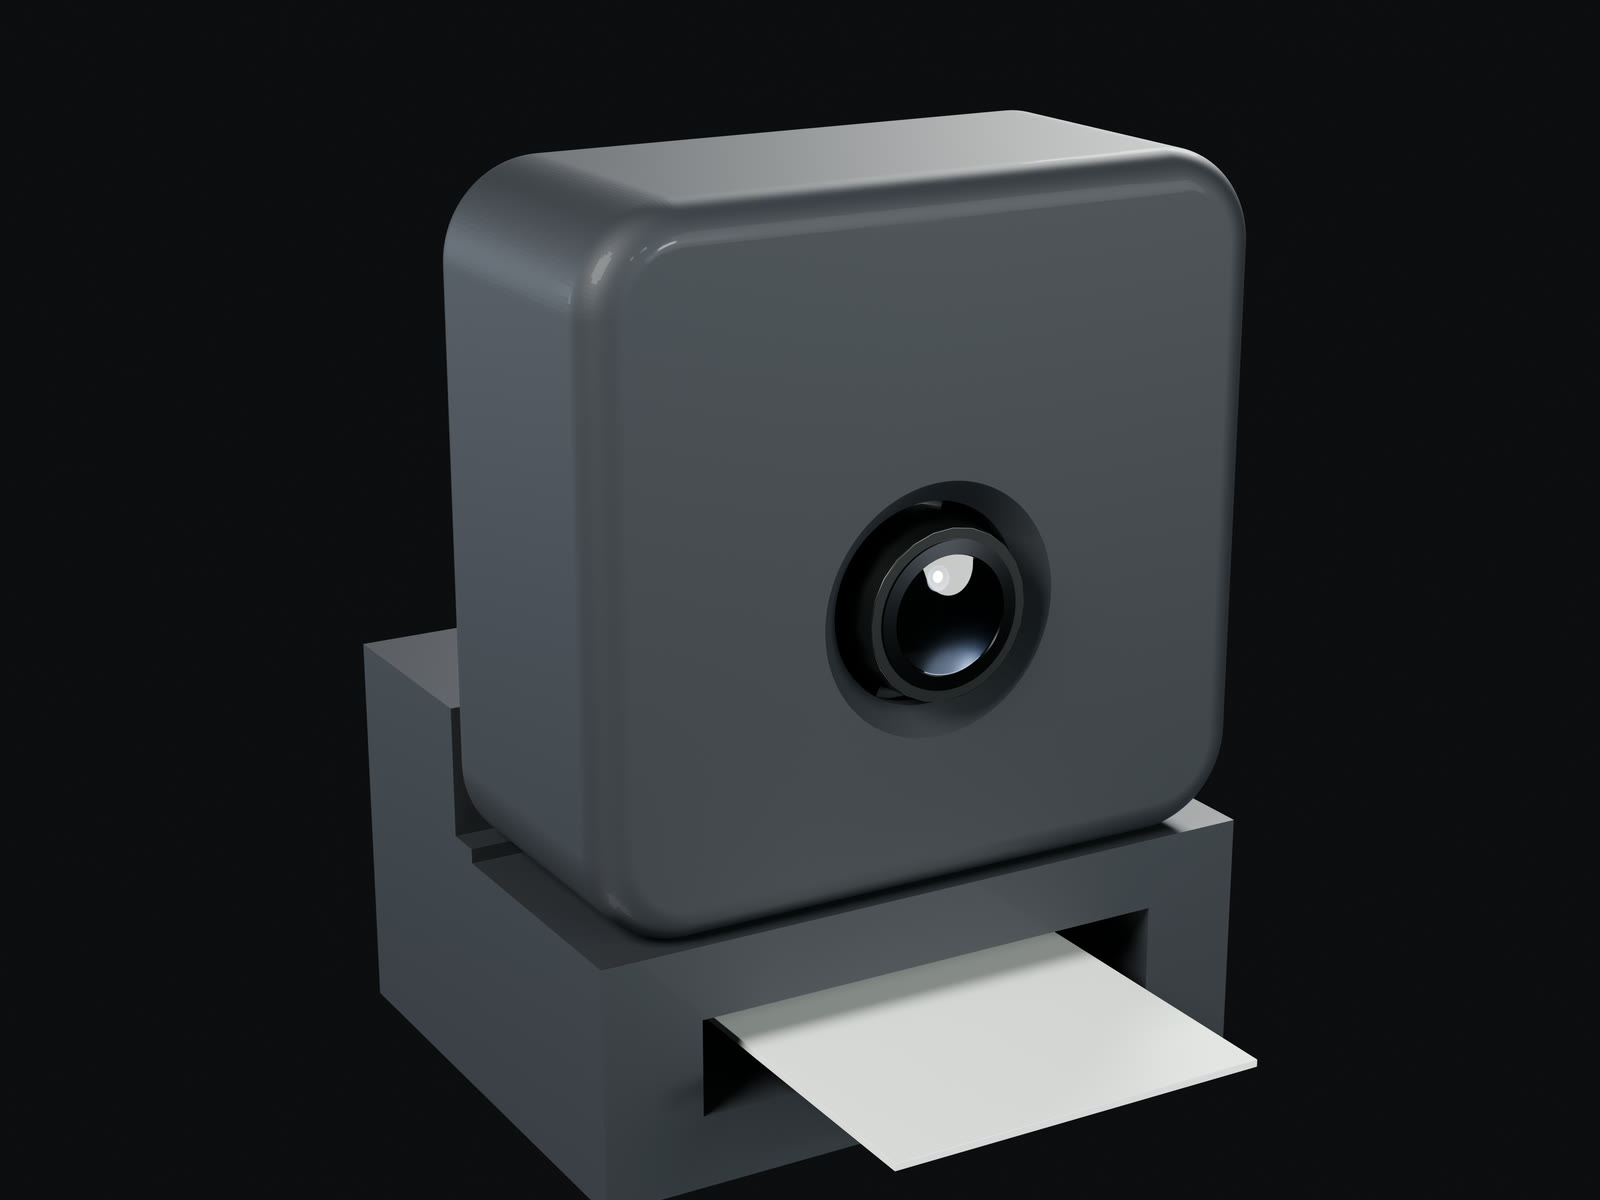
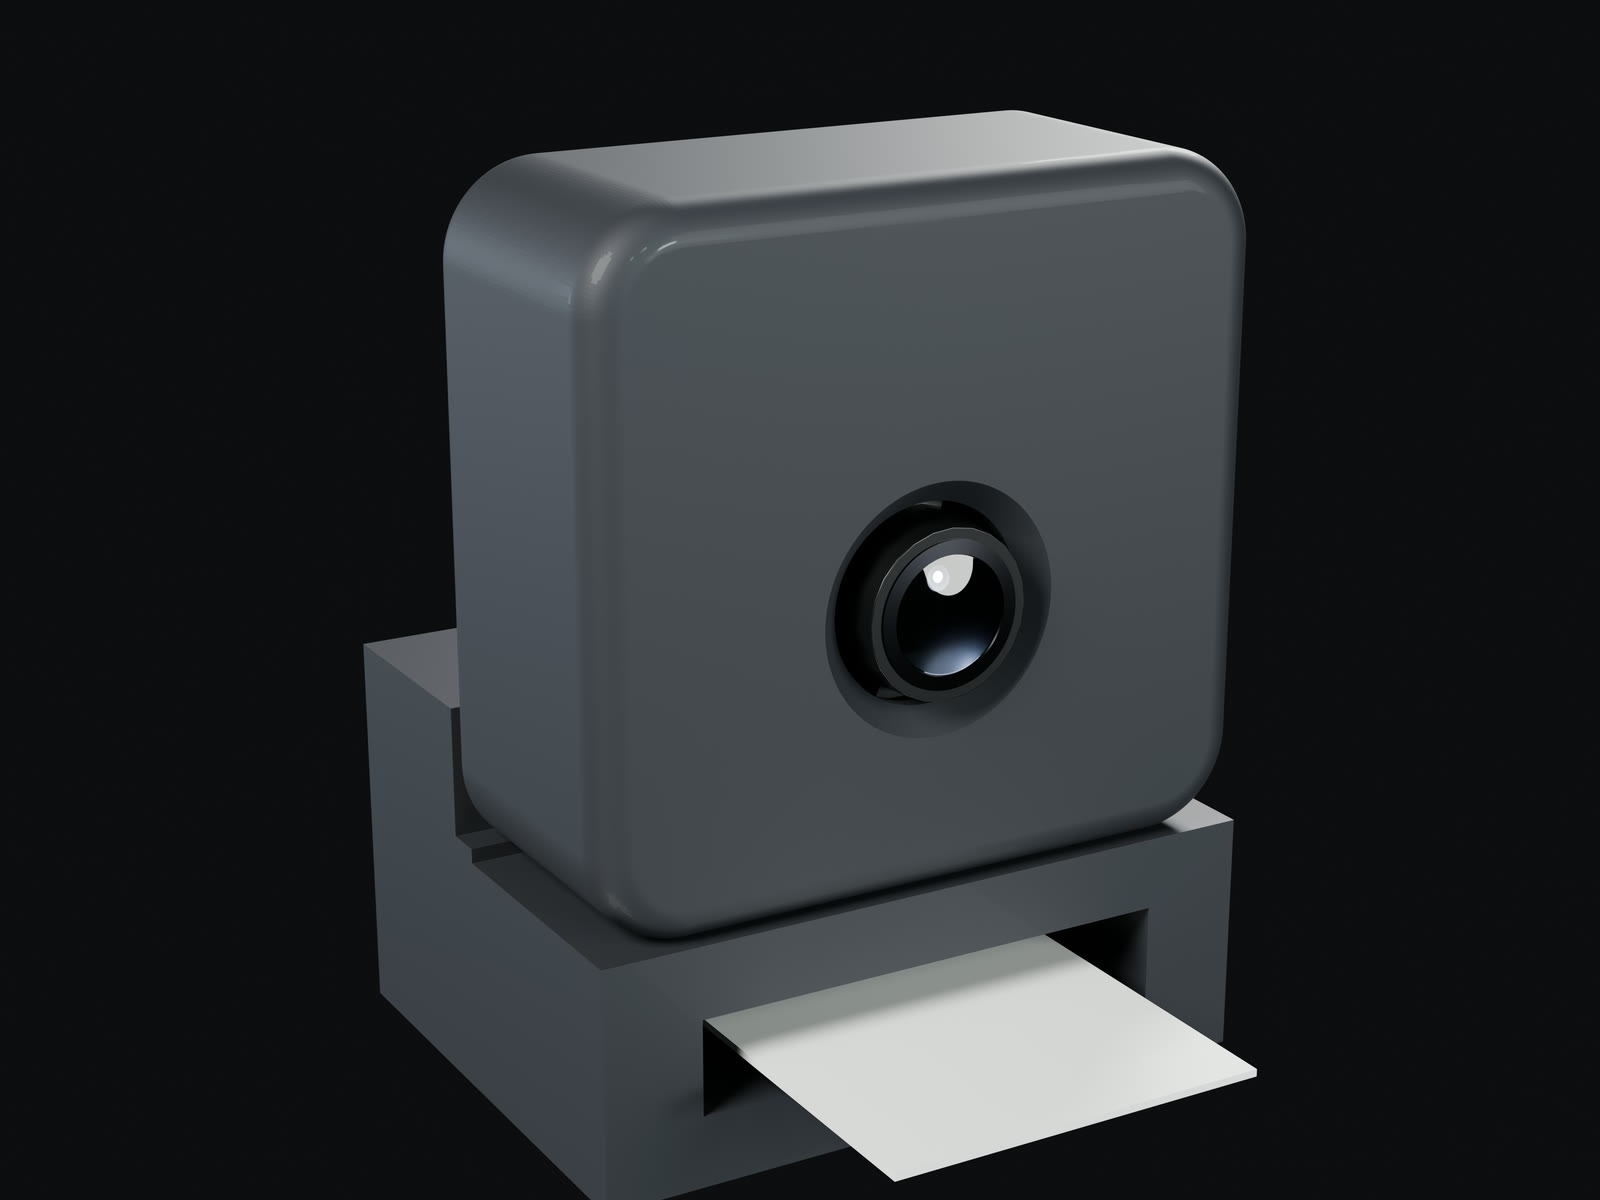
Update the Camera Module 3 Wide case README, JPG and anatomy GIF
Re-rendered with the open tripod socket and the curved ribbon channel.

diff --git a/5658 Raspberry Pi Camera Module 3 Wide/Tripod Case/README.md b/5658 Raspberry Pi Camera Module 3 Wide/Tripod Case/README.md
@@ -7,7 +7,7 @@ A two part snap-together case for the [Raspberry Pi Camera Module 3 Wide](https:
 ![Exploded line drawing: lens opening, pins, snap, ribbon path and tripod thread](<5658 Raspberry Pi Camera Module 3 Wide Tripod Case Anatomy.gif>)
 
 - The case can't block the 120 degree view. The front face sits 0.6 mm behind the lens glass, and a 125 degree cone from the glass rim is cut from the front anyway, so moving the face forward chamfers the opening instead of darkening the corners.
-- No screws. Pins on the front posts go through the board's mount holes into the back, and a lip on the back snaps inside the front walls. The ribbon runs down a 20.5 mm channel in the foot and out its front face, so the tripod plate never presses on it.
+- No screws. Pins on the front posts go through the board's mount holes into the back, and a lip on the back snaps inside the front walls. The ribbon runs down a 20.5 mm channel in the foot and out its front face, so the tripod plate never presses on it. A curve where the channel turns guides the ribbon round, so it pushes through from either end.
 - The tripod thread is printed in the foot, so no nut or adapter is needed. Set `thread_d` 9.525 and `thread_tpi` 16 for a 3/8"-16 socket.
 - Fit is checked against the official Raspberry Pi Camera Module 3 Wide STEP model. `build_case.py` runs that check when the STEP is in `ref/rpi-cm3-step/`.
 
